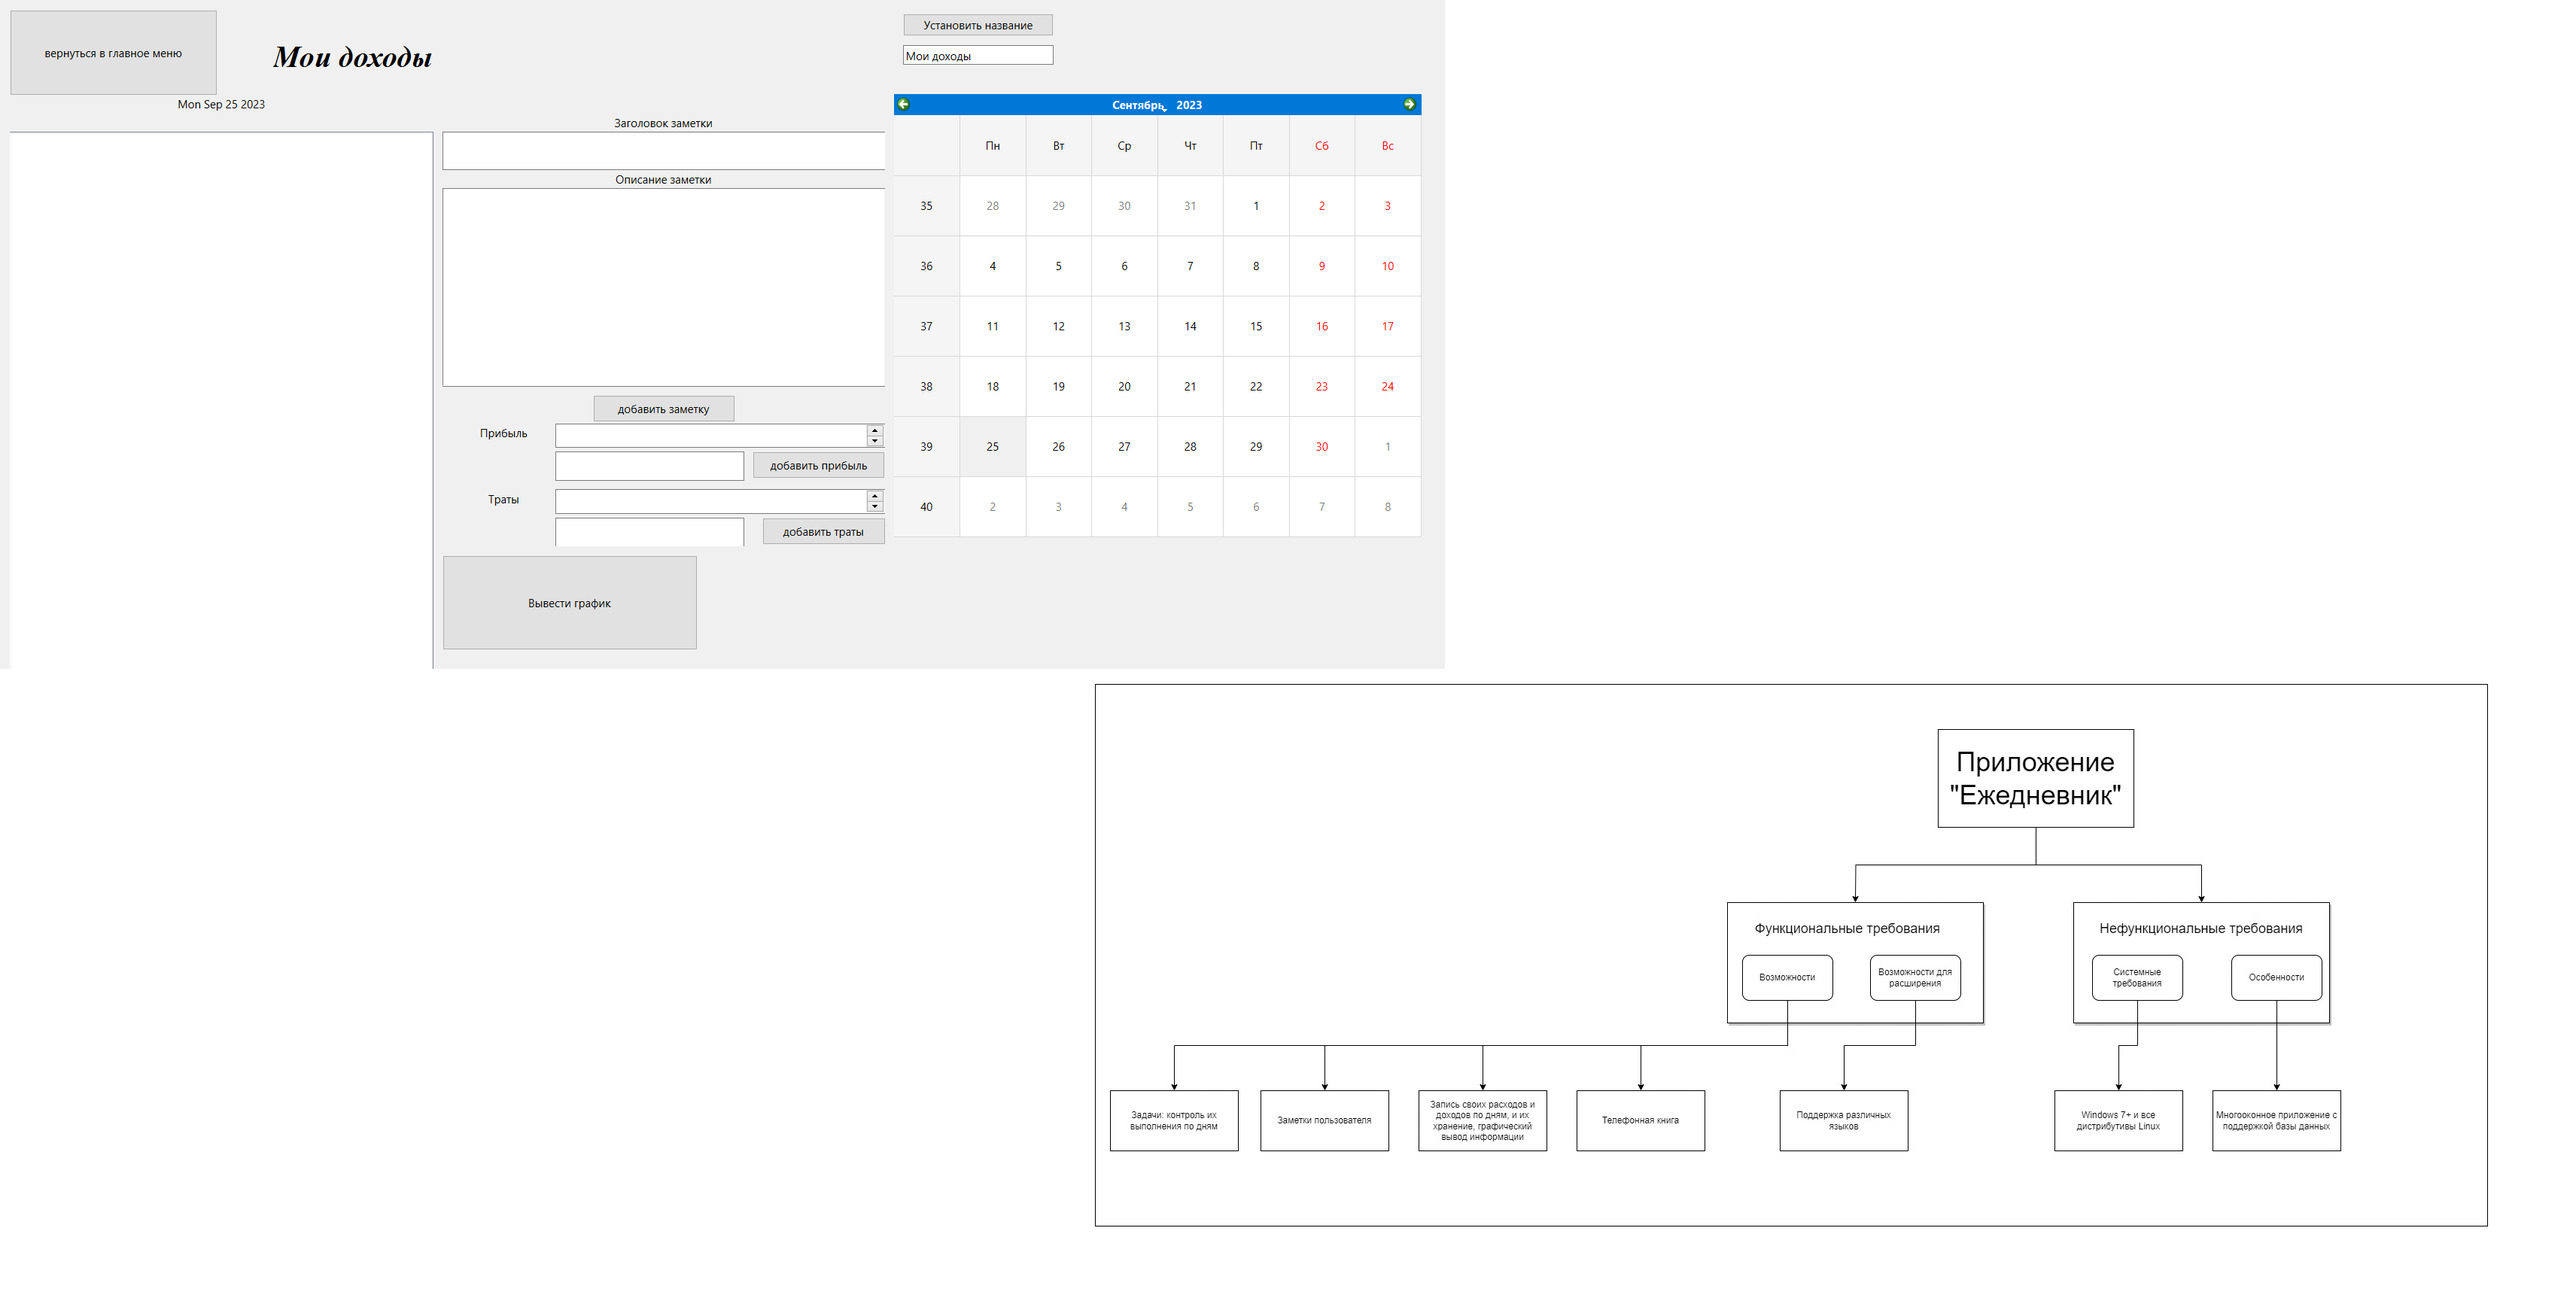
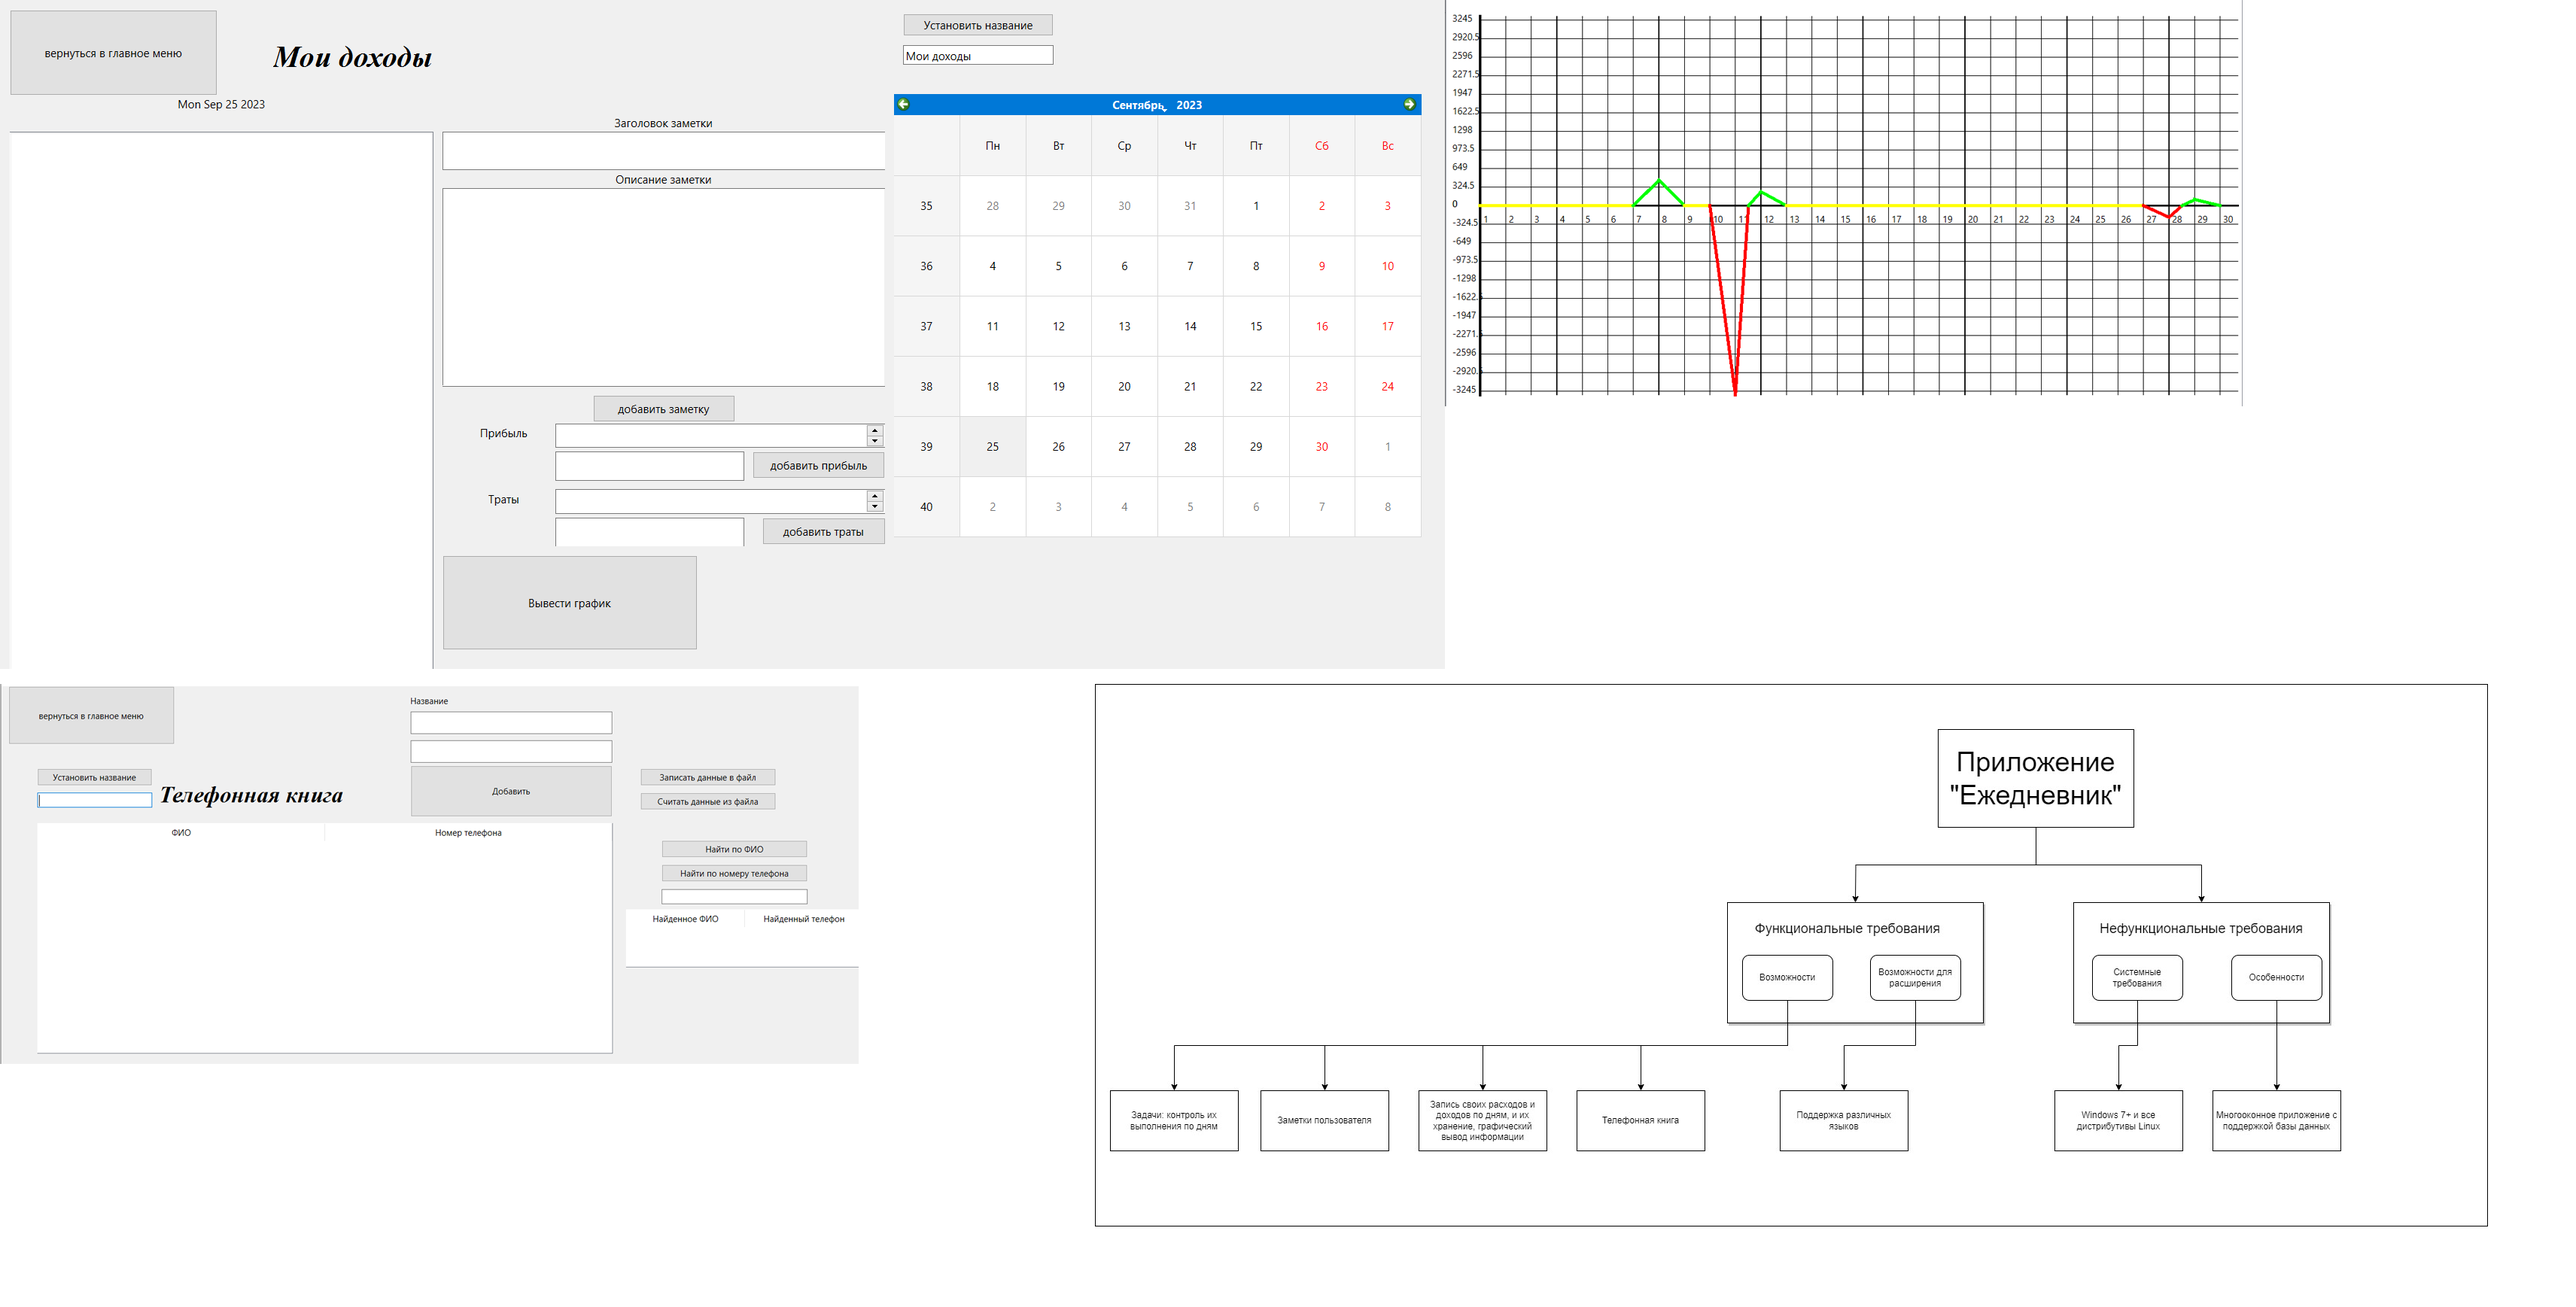
update ui&req and README

Changed region(s): [[0.5574, 0.0, 0.8671, 0.3109], [0.1548, 0.5596, 0.3097, 0.715], [0.0, 0.4974, 0.1239, 0.6218]]

diff --git a/README.md b/README.md
@@ -5,3 +5,23 @@ Qt приложение "Ежедневник"
 В папке Documents находятся pdf-документы: SRS, UI и т.д.
 
 В папке diaryProject находится непосредствено код проекта
+
+Язык программирования:
+* C++
+
+Фреймворк:
+* Qt
+
+Другие инструменты:
+* PostgreSQL
+
+Операционная система:
+* Windows 7+
+* Все Linux дистрибутивы
+
+Функционал:
+* Запись своих трат и доходов по дням с выводом графика
+* Телефонная книга, в которой можно оставить имя и телефон человека
+* Запись задач для выполнения и их отслеживание
+* Заметки пользователя на определённый день
+* Желания пользователя на будущее
